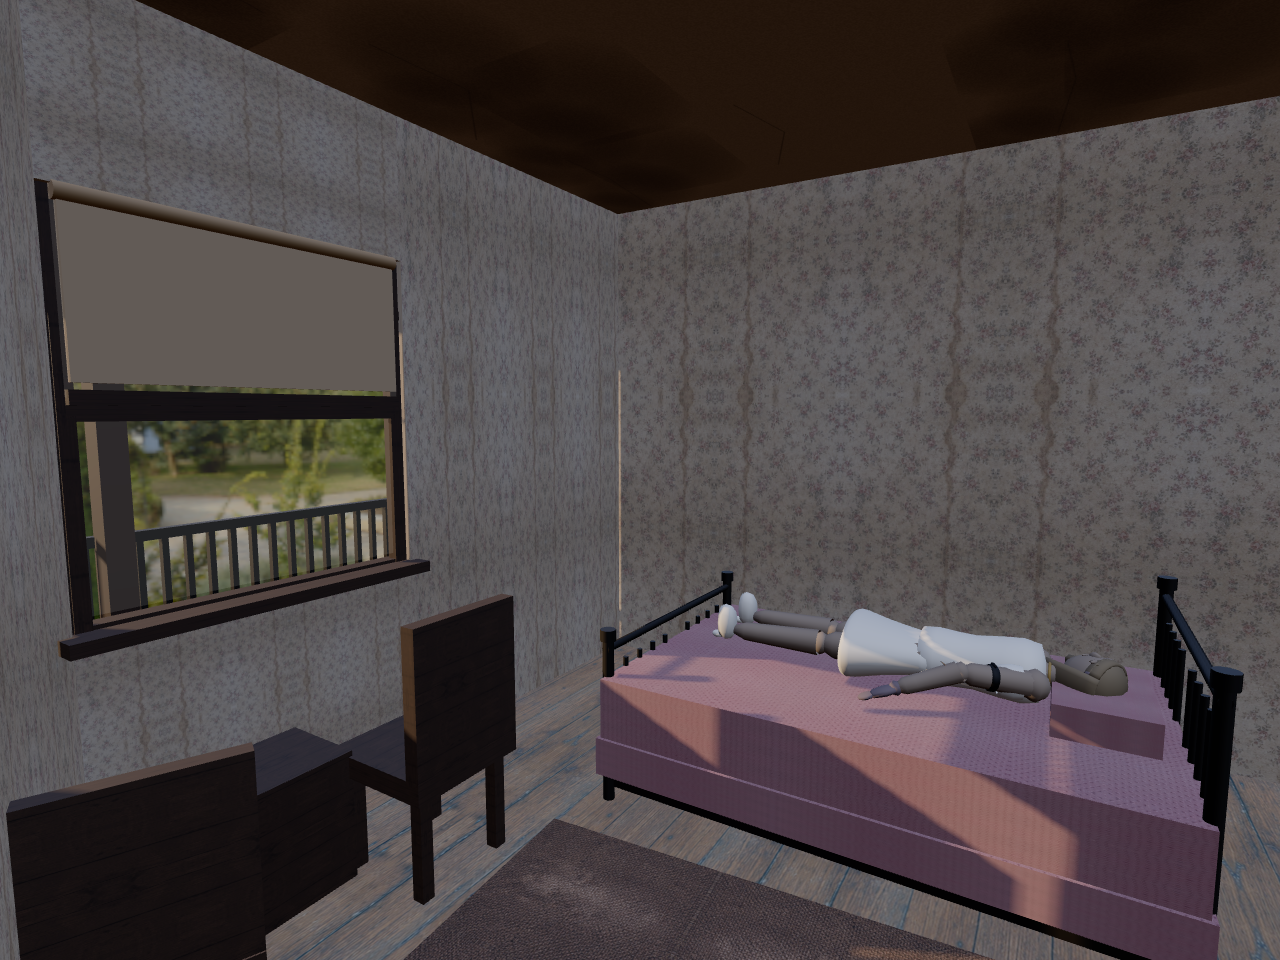
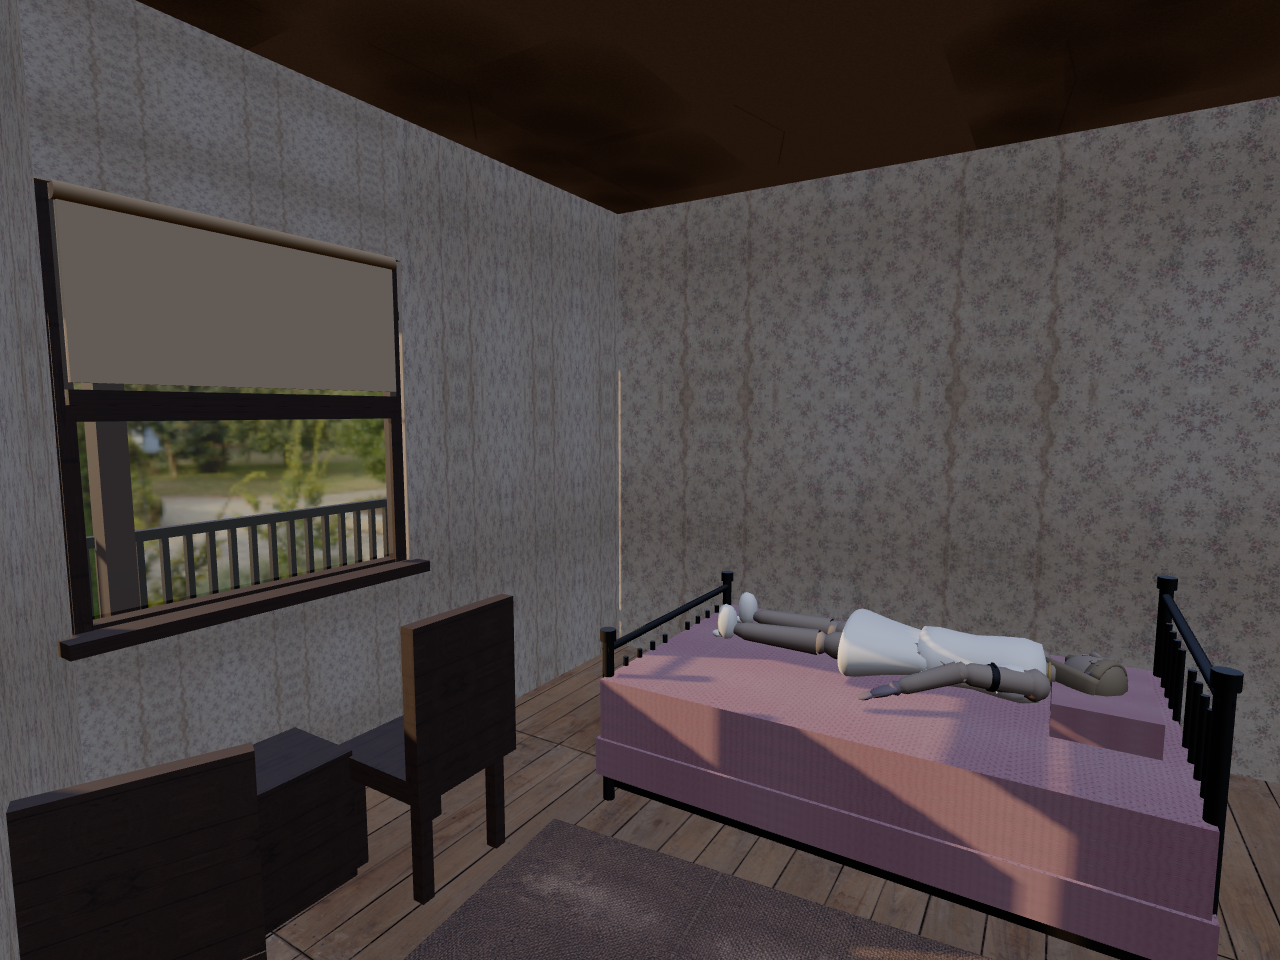
Step 2: one real material, on the floorboards
Poly Haven `wood_planks`, CC0, Amal Kumar. 2k, all four maps, on the room 1A
floor and nowhere else. The point is to prove the pipeline before anything else
is rewired, so every other surface in the room is still a canvas tile with a
guessed roughness.

`src/materials/pbr.ts` is the new loader. Three things in it are load bearing:

- Only the albedo is sRGB. A normal, a roughness and an occlusion map are
  measurements, and putting them through the sRGB decode tilts the normals and
  makes the roughness glossy. Everything but `diff` gets NoColorSpace
- Repeat comes out of the real world size of the tile and the surface, not out
  of a number that looked right. Poly Haven says the tile is 1.5m, the room is
  5.2 by 4.6, so it repeats 3.47 by 3.07 and the boards are the size boards are
- `withSecondUv` copies `uv` into `uv1`. `aoMap` and `lightMap` read the second
  UV set, which is `uv1` in current three and was `uv2` before r151, and a
  BoxGeometry ships one set. Without it the AO map loads, uploads, binds, and is
  silently ignored

That last one is a stand-in and is commented as such. A baked lightmap wants a
real non-overlapping unwrap and that arrives with the room out of Blender.
Reusing the tiling UVs is only honest while the AO map is the tile's own AO,
which repeats with it.

Verified in the browser, not just by eye: all four maps have images, uv1 is
present on the floor geometry, albedo is srgb and roughness is not, repeat is
3.47 x 3.07, no console errors.
[…]

Changed region(s): [[0.2188, 0.6875, 0.875, 1.0], [0.9375, 0.8125, 1.0, 1.0]]

diff --git a/src/materials/pbr.ts b/src/materials/pbr.ts
@@ -1,0 +1,143 @@
+import {
+  MeshStandardMaterial,
+  NoColorSpace,
+  RepeatWrapping,
+  SRGBColorSpace,
+  TextureLoader,
+  Vector2,
+  type BufferGeometry,
+  type Texture,
+} from 'three'
+
+/**
+ * Sourced PBR material sets.
+ *
+ * `surfaces.ts` draws its maps on a canvas and hands a `MeshStandardMaterial` a
+ * single albedo with a roughness number guessed beside it. That is revoked. A
+ * surface here is four maps that were measured off the real thing: albedo,
+ * normal, roughness and ambient occlusion, downloaded as a set at 2k.
+ *
+ * The difference is not detail, it is variation. A guessed roughness is one
+ * number over the whole floor, so the whole floor catches the sun identically
+ * and reads as one flat plane with a picture on it. A roughness map is where
+ * the wear is, and it is the thing that makes a scuffed board look scuffed.
+ *
+ * Sets live in `public/textures/pbr/<id>/`, named exactly as Poly Haven ships
+ * them. Every one is credited in `docs/CREDITS.md`.
+ */
+
+const loader = new TextureLoader()
+const cache = new Map<string, Texture>()
+
+export type PbrSet = 'wood_planks'
+
+interface SetDef {
+  /** Directory and filename stem under `public/textures/pbr/`. */
+  readonly id: string
+  /**
+   * How many metres of real surface the tile covers, from the Poly Haven
+   * listing. Repeats are worked out from this and the size of the thing being
+   * covered, so a floor is boards at board scale and not boards at whatever
+   * looked right.
+   */
+  readonly metres: number
+}
+
+const SETS: Readonly<Record<PbrSet, SetDef>> = {
+  wood_planks: { id: 'wood_planks', metres: 1.5 },
+}
+
+/** Poly Haven's map suffixes. `nor_gl` is the OpenGL normal, which is three's. */
+type MapKind = 'diff' | 'nor_gl' | 'rough' | 'ao'
+
+function load(set: SetDef, kind: MapKind, srgb: boolean): Texture {
+  const path = `/textures/pbr/${set.id}/${set.id}_${kind}_2k.jpg`
+  const cached = cache.get(path)
+  const tex = cached ?? loader.load(path)
+  if (cached === undefined) {
+    /*
+     * Only the albedo is colour. A normal, a roughness and an occlusion map are
+     * measurements, and putting them through the sRGB decode bends every value
+     * in them: the normals come out tilted and the roughness comes out glossy.
+     */
+    tex.colorSpace = srgb ? SRGBColorSpace : NoColorSpace
+    tex.anisotropy = 8
+    cache.set(path, tex)
+  }
+  return tex
+}
+
+/**
+ * Copies `uv` into `uv1`.
+ *
+ * `aoMap` and `lightMap` read the **second** UV set, which is named `uv1` in
+ * current three and was `uv2` before r151. Geometry built from `BoxGeometry`
+ * has one UV set, so without this the AO map is loaded, uploaded, bound, and
+ * silently ignored.
+ *
+ * This is a stand-in. A baked lightmap needs a real non-overlapping unwrap, and
+ * that arrives with the room out of Blender. Reusing the tiling UVs is only
+ * honest while the AO map is the tile's own AO, which repeats with it.
+ */
+export function withSecondUv(geometry: BufferGeometry): BufferGeometry {
+  const uv = geometry.getAttribute('uv')
+  if (uv !== undefined && geometry.getAttribute('uv1') === undefined) {
+    geometry.setAttribute('uv1', uv)
+  }
+  return geometry
+}
+
+export interface PbrOptions {
+  /** Size of the surface being covered, in metres. Sets the repeat. */
+  readonly metres: Vector2
+  /** Occlusion strength. 1 is the map as shipped. */
+  readonly aoIntensity?: number
+  /** Bump depth, both axes. 1 is the map as shipped. */
+  readonly normalScale?: number
+}
+
+/**
+ * A material with all four maps on it.
+ *
+ * Repeat comes out of the real world size of both the tile and the surface, so
+ * the boards are the size boards are.
+ */
+export function pbrMaterial(name: PbrSet, options: PbrOptions): MeshStandardMaterial {
+  const set = SETS[name]
+  const repeatX = options.metres.x / set.metres
+  const repeatY = options.metres.y / set.metres
+
+  const maps: Texture[] = []
+  const take = (kind: MapKind, srgb: boolean): Texture => {
+    // Cloned, because repeat lives on the texture and two surfaces at different
+    // scales would otherwise fight over it. Clones share the GPU upload.
+    const tex = load(set, kind, srgb).clone()
+    tex.needsUpdate = true
+    tex.wrapS = RepeatWrapping
+    tex.wrapT = RepeatWrapping
+    tex.repeat.set(repeatX, repeatY)
+    maps.push(tex)
+    return tex
+  }
+
+  const material = new MeshStandardMaterial({
+    map: take('diff', true),
+    normalMap: take('nor_gl', false),
+    roughnessMap: take('rough', false),
+    aoMap: take('ao', false),
+    /*
+     * White, and 1. The maps carry the albedo and the roughness now, and a
+     * palette hex multiplied through a photographed map is the map twice, which
+     * is what was turning every surface toward mud.
+     */
+    color: 0xffffff,
+    roughness: 1,
+    metalness: 0,
+  })
+
+  material.aoMapIntensity = options.aoIntensity ?? 1
+  const ns = options.normalScale ?? 1
+  material.normalScale = new Vector2(ns, ns)
+  material.userData.pbrMaps = maps
+  return material
+}

diff --git a/src/world/room1a.ts b/src/world/room1a.ts
@@ -7,9 +7,11 @@ import {
   MeshBasicMaterial,
   MeshStandardMaterial,
   Object3D,
+  Vector2,
   Vector3,
 } from 'three'
 import { EXTERIOR, ROOM_1A } from '../materials/palette.ts'
+import { pbrMaterial, withSecondUv } from '../materials/pbr.ts'
 import { plasterMap, mapped } from '../materials/surfaces.ts'
 import { tiled, windowed } from '../materials/textures.ts'
 import { chamferBoxGeometry } from './kit.ts'
@@ -144,10 +146,17 @@ export async function buildRoom1A(placement: Room1APlacement): Promise<Room1A> {
     map: tiled('bedspread-rose', 2.6, 4.0),
     roughness: 0.88,
   })
-  const floorMat = new MeshStandardMaterial({
-    color: 0xffffff,
-    map: tiled('floorboards-oak', 2.2, 3.4),
-    roughness: 0.92,
+  /*
+   * The floor is the first sourced material in the game, and the only one for
+   * now. Four maps, measured off real boards, at the scale real boards are.
+   * Everything else in this room is still a canvas tile with a guessed
+   * roughness and it stays that way until the room is rebuilt in Blender.
+   */
+  const floorMat = pbrMaterial('wood_planks', {
+    metres: new Vector2(WIDTH, DEPTH),
+    // Contact shadow between the boards, without the tile's own shading fighting
+    // the sun once the room is baked.
+    aoIntensity: 0.85,
   })
   // Ceiling stays off the floral: stained plaster above the picture rail.
   const ceilingMat = mapped(ROOM_1A.wallpaperFloral, 0.95, plasterMap(ROOM_1A.wallpaperFloral))
@@ -170,8 +179,10 @@ export async function buildRoom1A(placement: Room1APlacement): Promise<Room1A> {
   const halfW = WIDTH / 2
   const halfD = DEPTH / 2
 
-  // Floor and ceiling.
+  // Floor and ceiling. The floor's geometry gets a second UV set, because that
+  // is the one `aoMap` reads and a box only ships with one.
   const floor = box(WIDTH, 0.08, DEPTH, floorMat)
+  withSecondUv(floor.geometry)
   floor.position.set(0, -0.04, 0)
   floor.receiveShadow = true
   group.add(floor)

diff --git a/docs/CREDITS.md b/docs/CREDITS.md
@@ -13,6 +13,16 @@ and an author before the asset is committed.
 
 None sourced yet.
 
+## PBR material sets
+
+Full sets under `public/textures/pbr/<id>/`, 2k jpg, named as shipped: albedo
+(`diff`), OpenGL normal (`nor_gl`), roughness (`rough`), occlusion (`ao`).
+
+| Set | Used on | Source | Author | Licence |
+|---|---|---|---|---|
+| `wood_planks` | Room 1A floor | [Poly Haven — Wood Planks](https://polyhaven.com/a/wood_planks) | Amal Kumar | CC0 |
+
 ## Textures
 
-Authored in `images/assets/`, processed into `public/textures/`. Not third party.
+`public/textures/*.jpg` are authored in `images/assets/`. Not third party. They
+are stand-ins for sourced PBR sets and go as each one is replaced.
